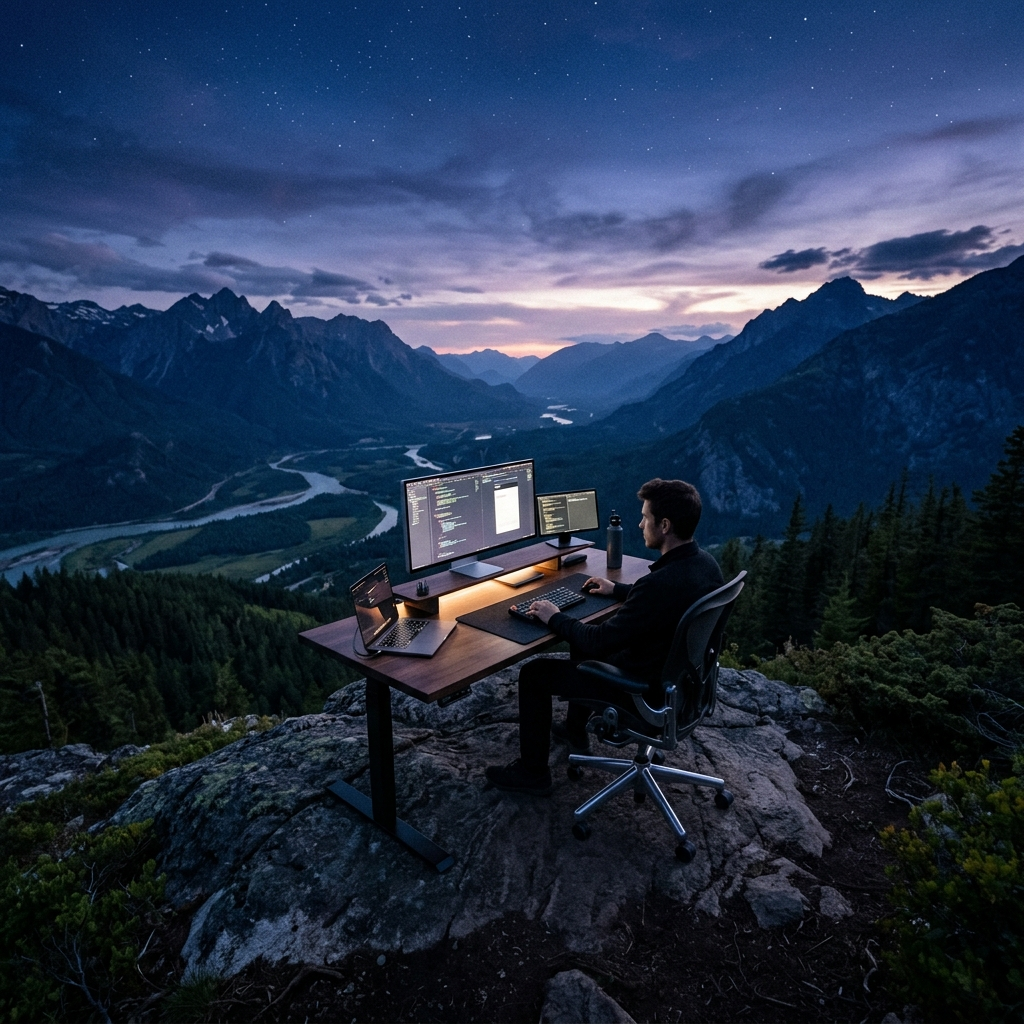
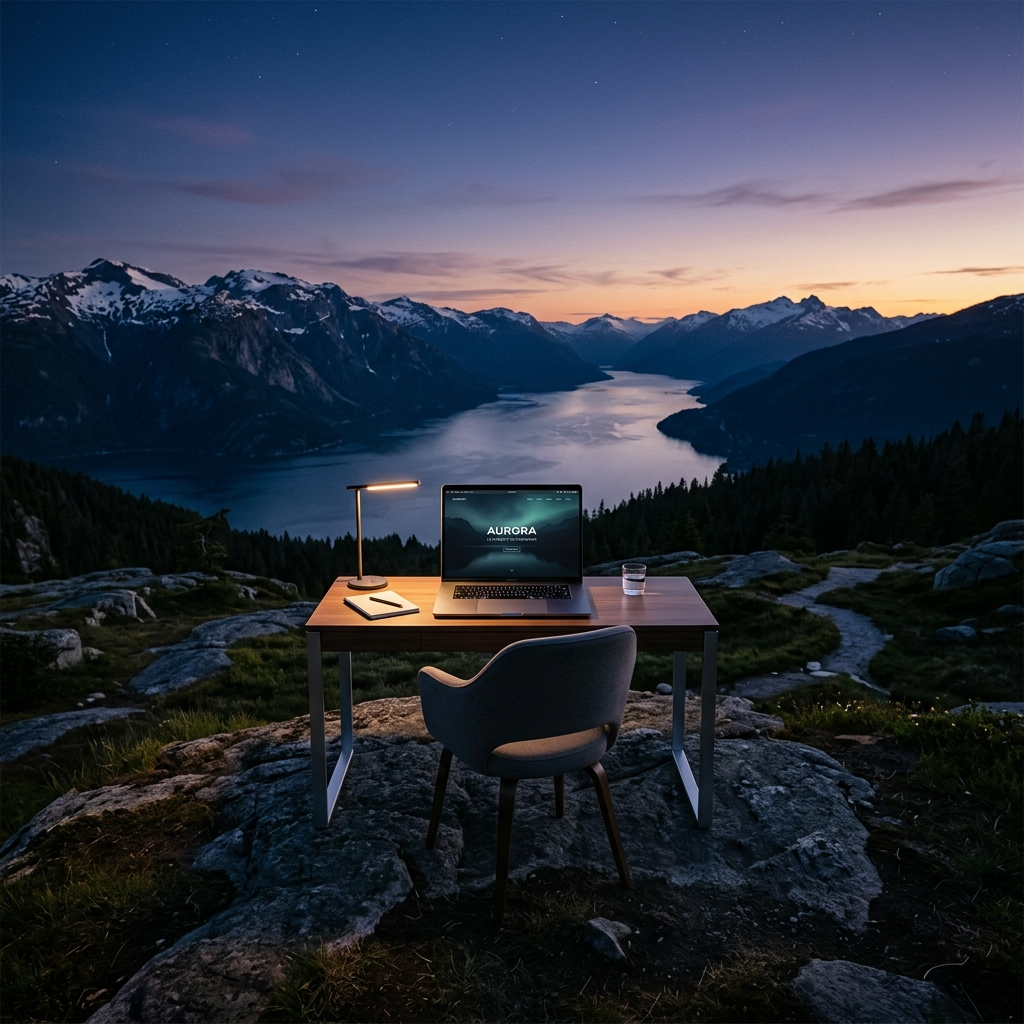
fix: center laptop in hero image and increase zoom scale

diff --git a/src/components/Splash.jsx b/src/components/Splash.jsx
@@ -40,11 +40,9 @@ export default function Splash({ onDone }) {
       {/* Background Image that zooms in */}
       <motion.div 
         animate={zooming ? { 
-          scale: 30, // massive zoom
+          scale: 80, // massive zoom into the laptop screen
           opacity: 0,
-          filter: 'blur(10px)',
-          // Adjust transform origin if the desk/computer is not exactly center.
-          // Center is usually fine for a dramatic zoom.
+          filter: 'blur(5px)',
         } : { 
           scale: 1.05, 
           opacity: 0.6,
@@ -60,7 +58,7 @@ export default function Splash({ onDone }) {
           backgroundImage: 'url(/assets/hero-bg.png)',
           backgroundSize: 'cover',
           backgroundPosition: 'center',
-          transformOrigin: '50% 60%', // Aim slightly below center where a desk usually is
+          transformOrigin: '50% 50%', // Exactly center where the laptop screen is
           zIndex: 0
         }} 
       />